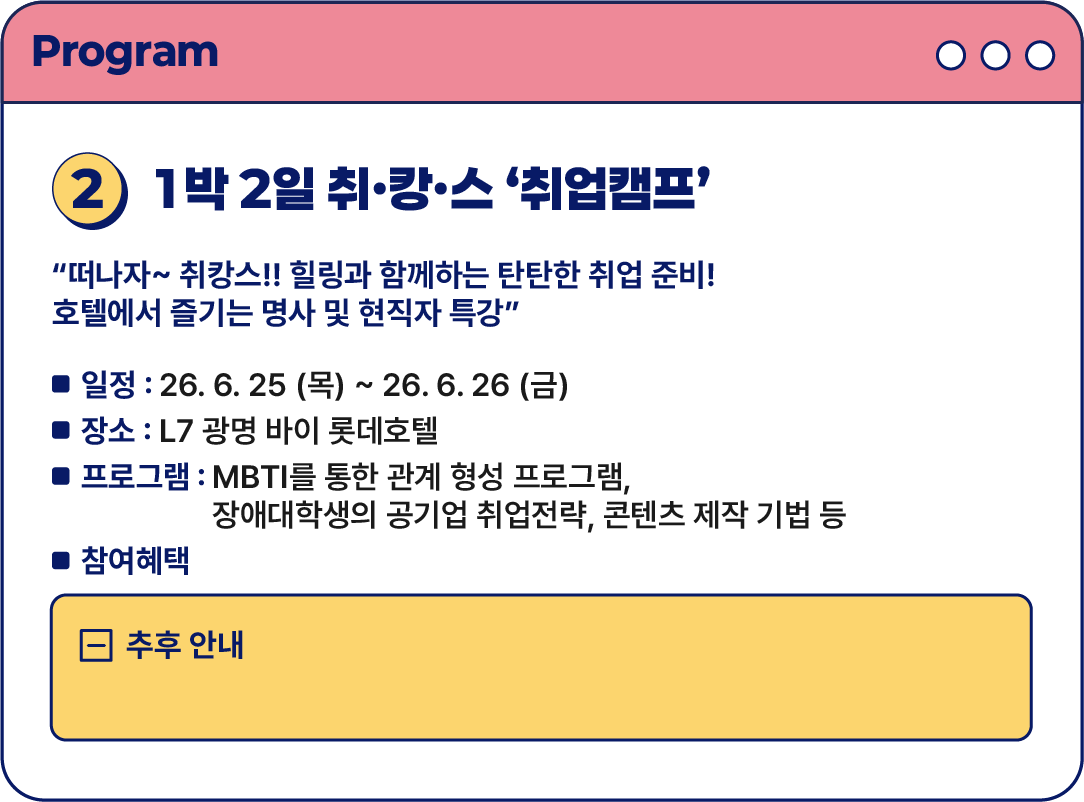
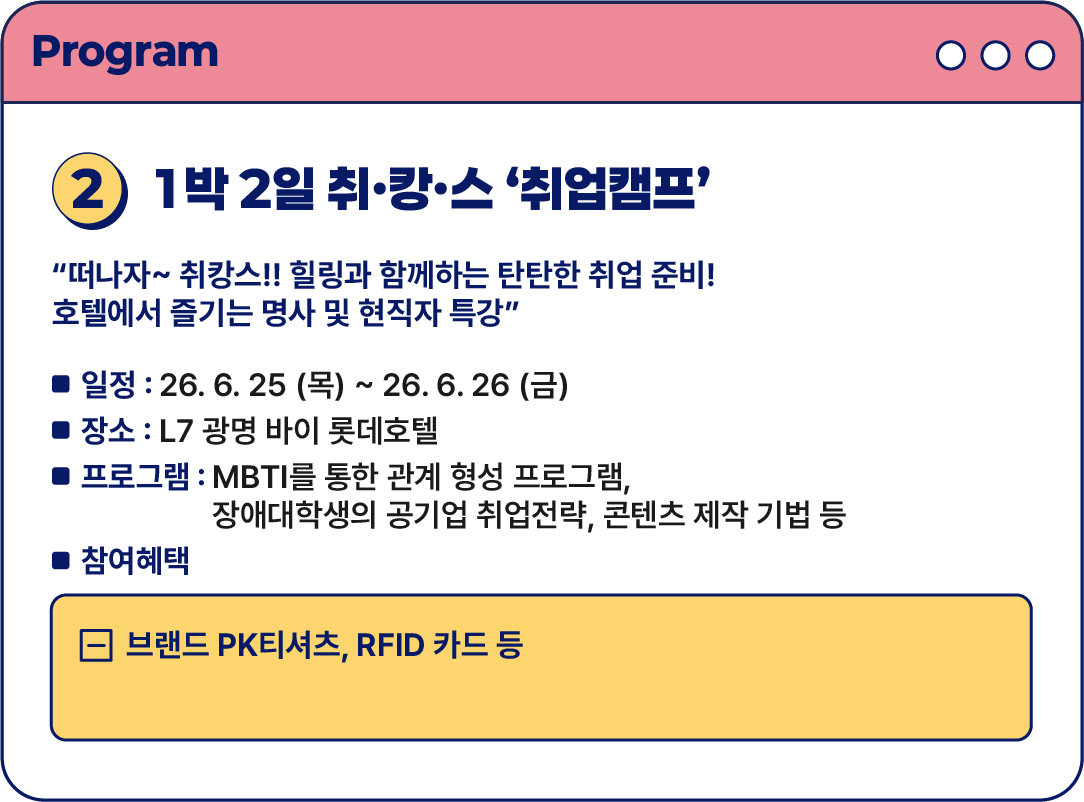
update: deploy sec04 notice text, styles, and p-2 image

Changed region(s): [[0.1218, 0.7793, 0.4871, 0.8416]]

diff --git a/index.html b/index.html
@@ -273,6 +273,7 @@
                 <section class="sec04">
                     <div class="sec-tit">
                         <h2>기업탐방 참여기업</h2>
+                        <p class="sec-tit-note">※각 기업별 탐방 상세 정보는 파란색 박스를 클릭하여 확인해 주시기 바랍니다.</p>
                     </div>
                     <div class="cont-wrap">
                         <div class="cont1">

diff --git a/css/index.css b/css/index.css
@@ -512,6 +512,19 @@ header .h-right>span {
 
 /* sec04 */
 
+.sec04 .sec-tit {
+    display: flex;
+    align-items: center;
+    flex-wrap: wrap;
+    gap: 0.4em 1em;
+}
+
+.sec04 .sec-tit-note {
+    font-size: clamp(14px, 1.2vw, 20px);
+    font-weight: 400;
+    color: #081a66;
+}
+
 .sec04 .cont-right ul {
     display: flex;
     align-items: flex-start;
